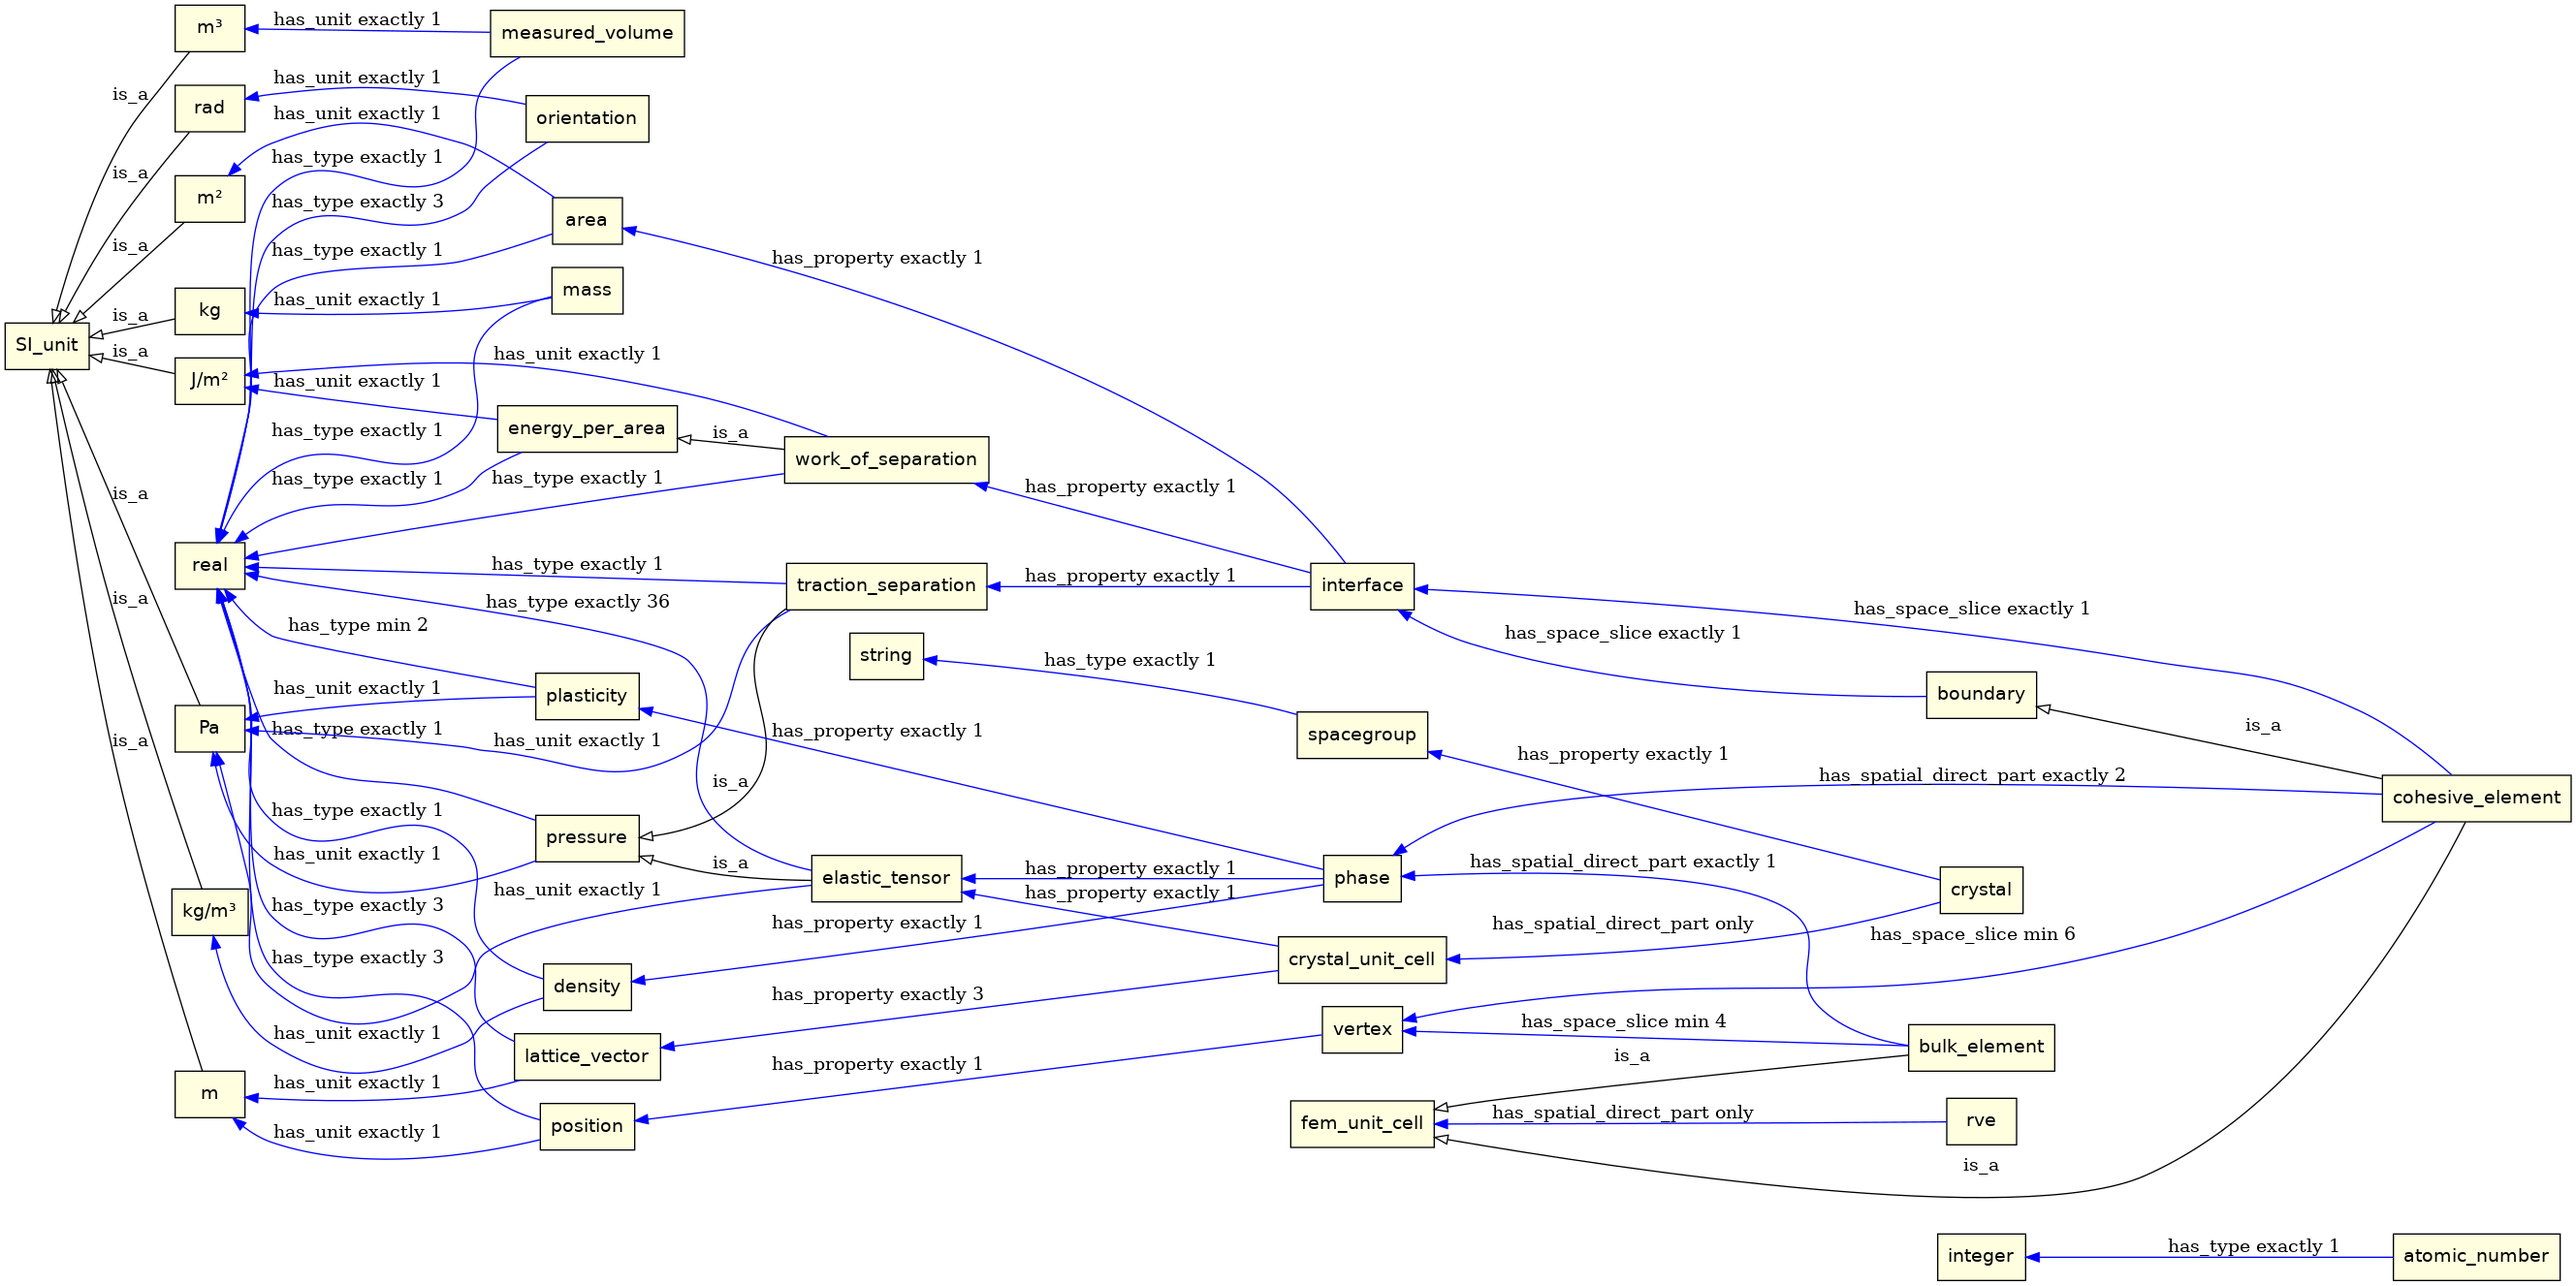
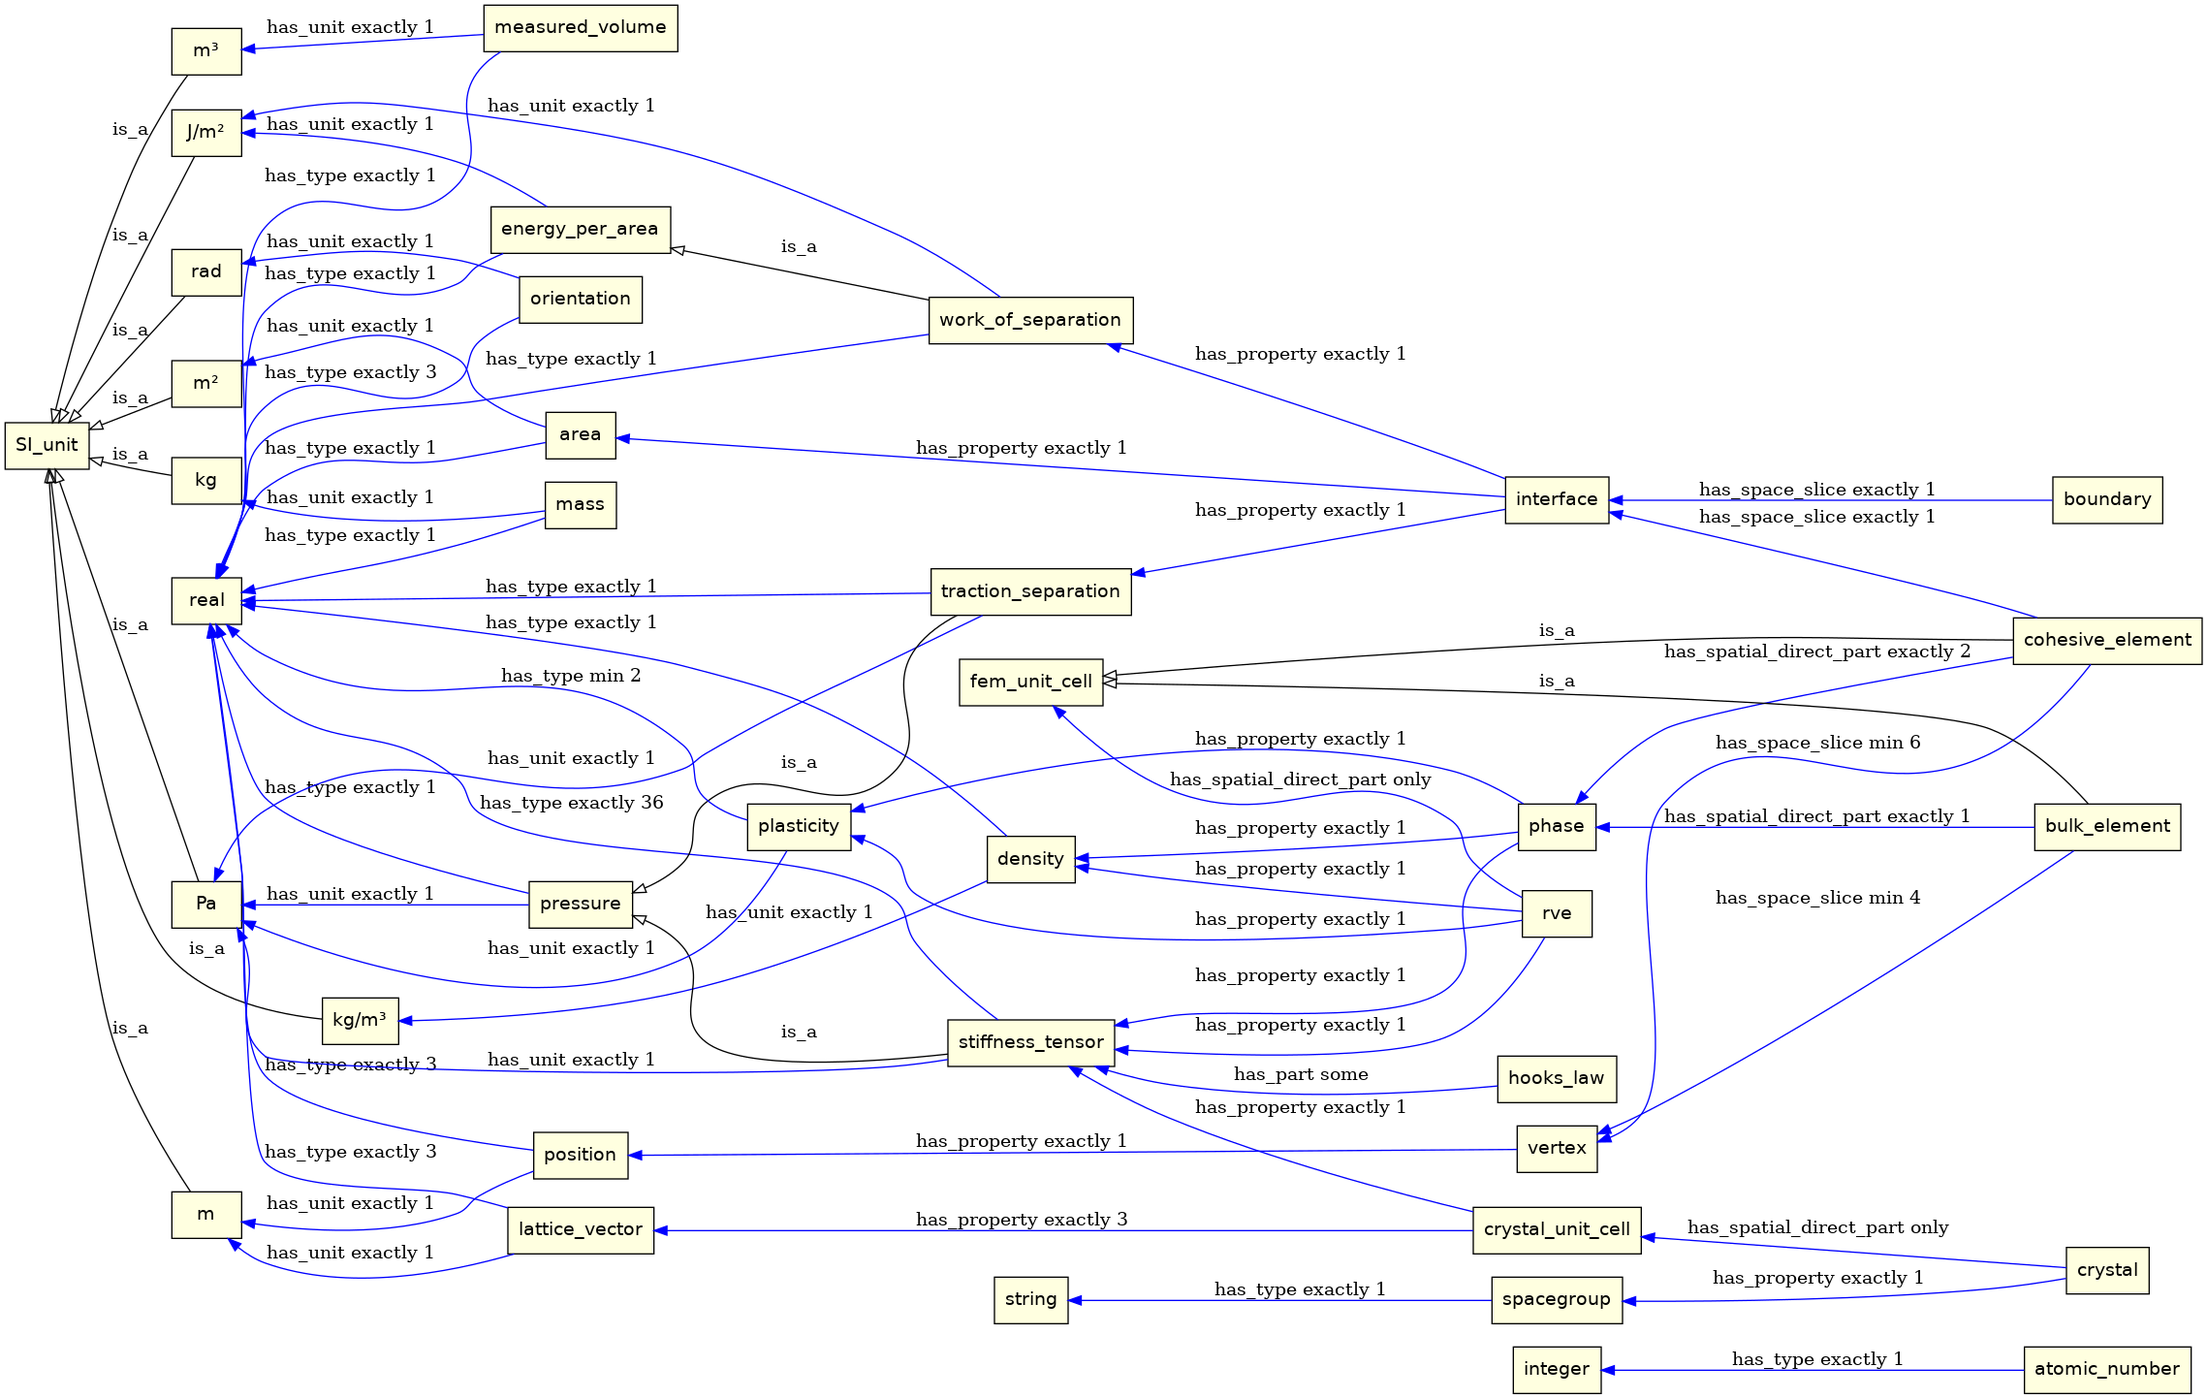
Updated the user case ontology

diff --git a/demo/vertical/case_ontology.py b/demo/vertical/case_ontology.py
@@ -61,11 +61,11 @@ with onto:
         inverse_property = has_unit
 
     class has_type(emmo.has_convention):
-        """Associates a type (symbol, number...) to a property."""
+        """Associates a type (string, number...) to a property."""
         pass
 
     class is_type_of(emmo.is_convention_for):
-        """Associates a property to a type (symbol, number...)."""
+        """Associates a property to a type (string, number...)."""
         inverse_property = has_type
 
     #
@@ -115,6 +115,7 @@ with onto:
     # Properties
     # ==========
     class position(emmo.physical_quantity):
+        """Spatial position of an physical entity."""
         is_a = [has_unit.exactly(1, meter),
                 has_type.exactly(3, real)]
 
@@ -153,7 +154,7 @@ with onto:
         is_a = [has_unit.exactly(1, pascal),
                 has_type.exactly(1, real)]
 
-    class elastic_tensor(pressure):
+    class stiffness_tensor(pressure):
         """The stiffness tensor $c_{ijkl}$ is a property of a continuous
         elastic material that relates stresses to strains (Hooks's
         law) according to
@@ -174,21 +175,6 @@ with onto:
         is_a = [has_unit.exactly(1, pascal),
                 has_type.exactly(36, real)]
 
-    class plasticity(emmo.physical_quantity):
-        """Describes Yield stress and material hardening."""
-        is_a = [has_unit.exactly(1, pascal),
-                has_type.min(2, real)]
-
-    class work_of_separation(energy_per_area):
-        """The work required to separate two materials per boundary area."""
-        is_a = [has_unit.exactly(1, joule_per_square_meter),
-                has_type.exactly(1, real)]
-
-    class traction_separation(pressure):
-        """The work required to separate two materials per boundary area."""
-        is_a = [has_unit.exactly(1, pascal),
-                has_type.exactly(1, real)]
-
     class atomic_number(emmo.physical_quantity):
         """Number of protons in the nucleus of an atom."""
         is_a = [has_type.exactly(1, integer)]
@@ -208,32 +194,25 @@ with onto:
         """
         is_a = [has_type.exactly(1, string)]
 
-    #
-    # Material classes
-    # ================
+    class plasticity(emmo.physical_quantity):
+        """Describes Yield stress and material hardening."""
+        is_a = [has_unit.exactly(1, pascal),
+                has_type.min(2, real)]
 
-    # Crystallography-related classes
-    # -------------------------------
-    class crystal_unit_cell(emmo.atomic):
-        """A volume defined by the 3 unit cell vectors.  It contains the atoms
-        constituting the unit cell of a crystal."""
-        is_a = [emmo.has_spatial_direct_part.some(emmo['e-bonded_atom']),
-                emmo.has_property.exactly(3, lattice_vector),
-                emmo.has_property.exactly(1, elastic_tensor)]
+    class work_of_separation(energy_per_area):
+        """The work required to separate two materials per boundary area."""
+        is_a = [has_unit.exactly(1, joule_per_square_meter),
+                has_type.exactly(1, real)]
 
-    class crystal(emmo.solid):
-        """A periodic crystal structure."""
-        is_a = [emmo.has_spatial_direct_part.only(crystal_unit_cell),
-                emmo.has_property.exactly(1, spacegroup)]
-
-    # Add some properties to our atoms
-    emmo['e-bonded_atom'].is_a.append(emmo.has_property.exactly(1, atomic_number))
-    emmo['e-bonded_atom'].is_a.append(emmo.has_property.exactly(1, mass))
-    emmo['e-bonded_atom'].is_a.append(emmo.has_property.exactly(1, position))
+    class traction_separation(pressure):
+        """The work required to separate two materials per boundary area."""
+        is_a = [has_unit.exactly(1, pascal),
+                has_type.exactly(1, real)]
 
 
     #
-    #
+    # Subdimensional
+    # ==============
     class interface(emmo.surface):
         """A 2D surface associated with a boundary.
 
@@ -247,20 +226,44 @@ with onto:
     # Aassign `measured_volume` as a property of `emmo.volume`
     emmo.volume.is_a.append(emmo.has_property.exactly(1, measured_volume))
 
+
+
+    #
+    # Material classes
+    # ================
+
+    # Crystallography-related classes
+    # -------------------------------
+    class crystal_unit_cell(emmo.mesoscopic):
+        """A volume defined by the 3 unit cell vectors.  It contains the atoms
+        constituting the unit cell of a crystal."""
+        is_a = [emmo.has_spatial_direct_part.some(emmo['e-bonded_atom']),
+                emmo.has_property.exactly(3, lattice_vector),
+                emmo.has_property.exactly(1, stiffness_tensor)]
+
+    class crystal(emmo.solid):
+        """A periodic crystal structure."""
+        is_a = [emmo.has_spatial_direct_part.only(crystal_unit_cell),
+                emmo.has_property.exactly(1, spacegroup)]
+
+    # Add some properties to our atoms
+    emmo['e-bonded_atom'].is_a.append(emmo.has_property.exactly(1, atomic_number))
+    emmo['e-bonded_atom'].is_a.append(emmo.has_property.exactly(1, mass))
+    emmo['e-bonded_atom'].is_a.append(emmo.has_property.exactly(1, position))
+
     class boundary(emmo.state):
         """A boundary is a 4D region of spacetime shared by two material
-        entities.
-        """
-        is_a = [emmo.has_spatial_direct_part.exactly(2, emmo.state),
-                emmo.has_space_slice.exactly(1, interface)]
+        entities."""
+        equivalient_to = [emmo.has_spatial_direct_part.exactly(2, emmo.state)]
+        is_a = [emmo.has_space_slice.exactly(1, interface)]
 
-    class phase(emmo.solid):
+    class phase(emmo.continuum):
         """A phase in a bulk material.
 
         Other properties, like compositions etc. would normally be
         assigned to a phase, are omitted here because they are not
         essential for this case study."""
-        is_a = [emmo.has_property.exactly(1, elastic_tensor),
+        is_a = [emmo.has_property.exactly(1, stiffness_tensor),
                 emmo.has_property.exactly(1, density),
                 emmo.has_property.exactly(1, plasticity)]
 
@@ -268,14 +271,13 @@ with onto:
         """A vertex in a finite element unit cell."""
         is_a = [emmo.has_property.exactly(1, position)]
 
-    class fem_unit_cell(emmo.solid):
+    class fem_unit_cell(emmo.model):
         """A volume of a real world entity that is represented as a finite
         element unit cell in FEM."""
         is_a = [emmo.has_space_slice.exactly(1, emmo.volume)]
 
     class cohesive_element(fem_unit_cell):
-        is_a = [boundary,
-                emmo.has_spatial_direct_part.exactly(2, phase),
+        is_a = [emmo.has_spatial_direct_part.exactly(2, phase),
                 emmo.has_space_slice.min(6, vertex),
                 emmo.has_space_slice.exactly(1, interface)]
 
@@ -283,18 +285,41 @@ with onto:
         is_a = [emmo.has_spatial_direct_part.exactly(1, phase),
                 emmo.has_space_slice.min(4, vertex)]
 
-    class rve(emmo.solid):
+    class rve(emmo.continuum):
         """The minimum volume that represents the system in question."""
-        is_a = [emmo.has_spatial_direct_part.only(fem_unit_cell)]
+        is_a = [emmo.has_spatial_direct_part.only(fem_unit_cell),
+                emmo.has_property.exactly(1, stiffness_tensor),
+                emmo.has_property.exactly(1, density),
+                emmo.has_property.exactly(1, plasticity)]
 
-    #class grain(crystal):
-    #    """The complexity with subgrains is ignored here..."""
-    #    label = ['grain']
-    #    is_a = [emmo.has_property.exactly(1, orientation),
-    #            emmo.has_property.exactly(1, measured_volume),
-    #    ]
 
     #
+    # Models
+    # ======
+    class hooks_law(emmo.material_relation):
+        """Hook's law is a material relation that relates stresses to strains
+        in a continous elastic materials."""
+        is_a = [emmo.has_part.some(stiffness_tensor)]
+
+    # FIXME
+    class fem_unit_cell(emmo.model):
+        """A volume of a real world entity that is represented as a finite
+        element unit cell in FEM."""
+        is_a = [emmo.has_space_slice.exactly(1, emmo.volume)]
+
+    # FIXME
+    class cohesive_element(fem_unit_cell):
+        is_a = [emmo.has_spatial_direct_part.exactly(2, phase),
+                emmo.has_space_slice.min(6, vertex),
+                #emmo.has_space_slice.exactly(1, interface),
+        ]
+
+    # FIXME
+    class bulk_element(fem_unit_cell):
+        is_a = [emmo.has_spatial_direct_part.exactly(1, phase),
+                emmo.has_space_slice.min(4, vertex)]
+
+
 
 
 # Sync attributes to make sure that all classes get a `label` and to
@@ -363,7 +388,7 @@ graph.write_png('figs/properties+materials.png')
 # Material
 #items = [emmo.atomic, emmo.continuum, onto.boundary]
 items = [emmo.state] + materials
-leafs = ['symbolic', 'subatomic', 'mesoscopic', 'standalone_atom']
+leafs = ['elementary', 'symbolic', 'subatomic', 'standalone_atom']
 graph = onto.get_dot_graph(items, leafs=leafs, relations=True,
                            parents=False, style='uml')
 graph.write_png('figs/materials.png')
